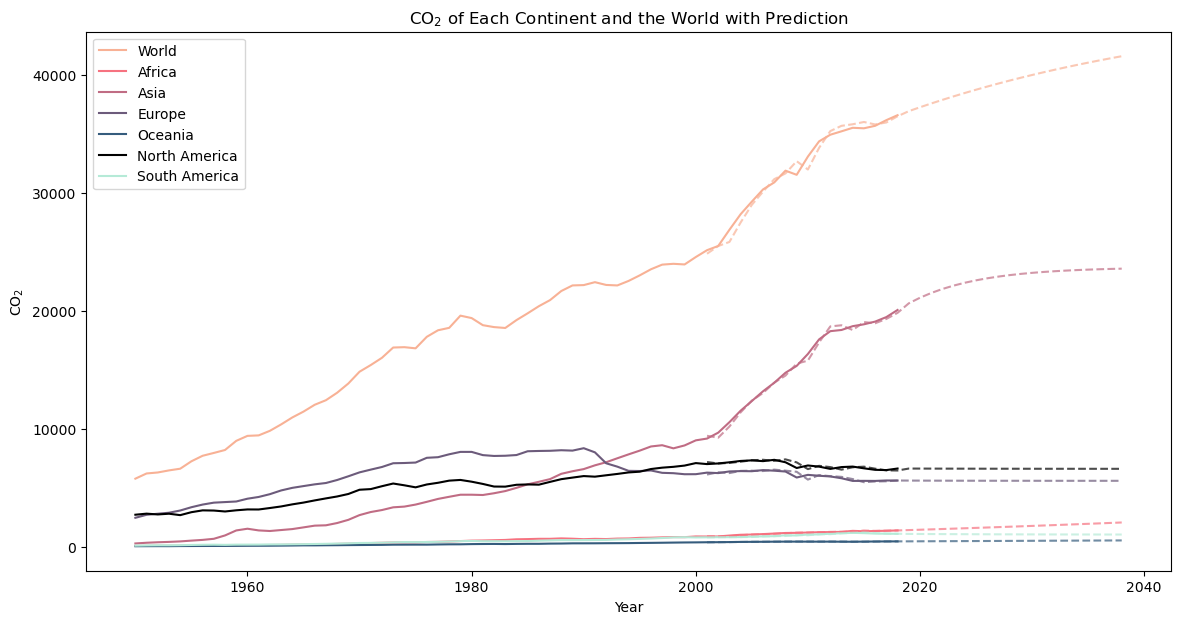
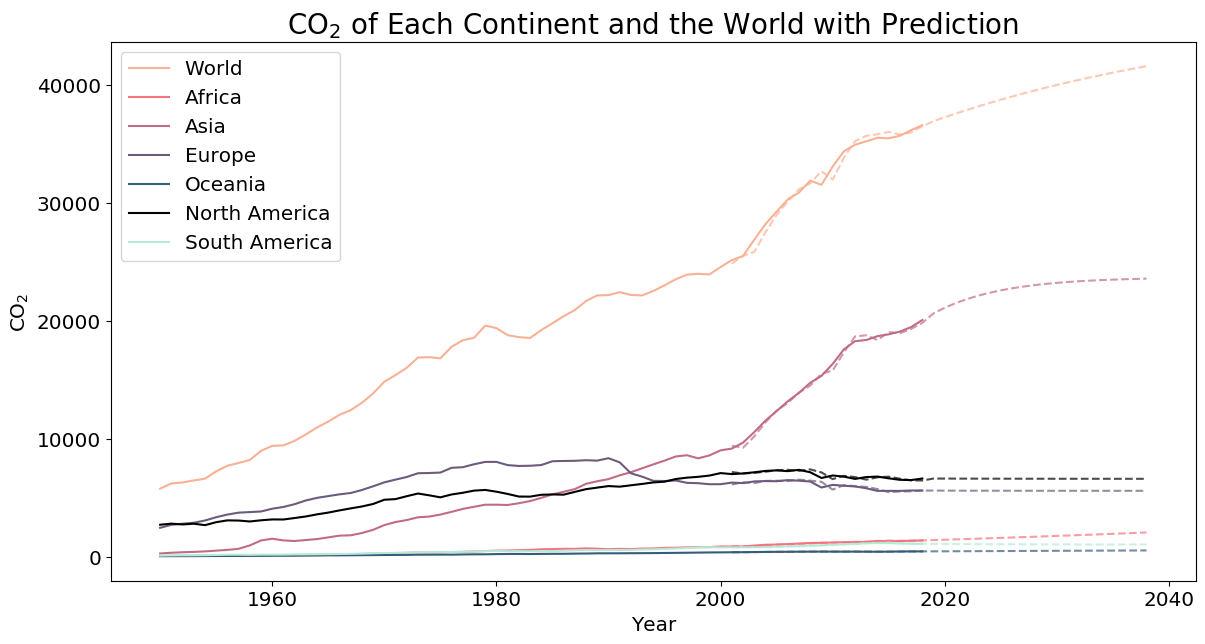
fix overall world predicitons and representations, re-render images

diff --git a/world_overall.py b/world_overall.py
@@ -25,8 +25,25 @@ def run():
                 columns_to_drop.append(column)
         avg_health_df = avg_health_df_new.drop(columns=columns_to_drop)
         health_data.append(avg_health_df)
-    health_data[0] =  (health_data[0] - health_data[0].mean()) / health_data[0].std()
-    health_data[1] = 1-( health_data[1] -  health_data[1].mean()) /  health_data[1].std()# inversely normalize when the higher the better
+
+    #pct change operates on cols, hence transposing
+    health_data[0] = health_data[0].T
+    africa = health_data[1].iloc[0].pct_change()
+    health_data[0] = health_data[0].pct_change()
+    health_data[0].iloc[0] = africa
+    health_data[0] = health_data[0].T
+
+    health_data[1] = health_data[1].T
+    africa = health_data[1].iloc[0].pct_change()
+    health_data[1] = health_data[1].pct_change()
+    health_data[1].iloc[0] = africa
+    health_data[1] = health_data[1].T
+
+
+
+    #health_data[0] =  (health_data[0] - health_data[0].mean()) / health_data[0].std()
+    health_data[1] = - (health_data[1]) # inverse when the higher the better
+    #health_data[1] = 1-( health_data[1] -  health_data[1].mean()) /  health_data[1].std()# inversely normalize when the higher the better
 
     avg_health_df = pd.concat([health_data[0], health_data[1]], axis=1).groupby(axis=1, level=0).mean()
 
@@ -40,13 +57,25 @@ def run():
             if int(column) < min_year or int(column) > max_year:
                 columns_to_drop.append(column)
 
-        avg_economy_df_new = (avg_economy_df_new - avg_economy_df_new.mean()) / avg_economy_df_new.std()
+        #avg_economy_df_new = (avg_economy_df_new - avg_economy_df_new.mean()) / avg_economy_df_new.std()
         avg_economy_df = avg_economy_df_new.drop(columns=columns_to_drop)
         econ_data.append(avg_economy_df)
 
-    econ_data[0] = (econ_data[0] - econ_data[0].mean()) / econ_data[
-        0].std()
-    econ_data[1] = 1-(econ_data[1] - econ_data[1].mean()) / econ_data[1].std()
+
+    econ_data[0] = econ_data[0].T
+    africa = econ_data[1].iloc[0].pct_change()
+    econ_data[0] = econ_data[0].pct_change()
+    econ_data[0].iloc[0] = africa
+    econ_data[0] = econ_data[0].T
+
+    econ_data[1] = econ_data[1].T
+    africa = econ_data[1].iloc[0].pct_change()
+    econ_data[1] = econ_data[1].pct_change()
+    econ_data[1].iloc[0] = africa
+    econ_data[1] = econ_data[1].T
+    #econ_data[0] = (econ_data[0] - econ_data[0].mean()) / econ_data[0].std()
+    econ_data[1] = - econ_data[1] # inverse when the higher the better
+    #econ_data[1] = 1-(econ_data[1] - econ_data[1].mean()) / econ_data[1].std()
     avg_economy_df = pd.concat([econ_data[0], econ_data[1]], axis=1).groupby(axis=1, level=0).mean()
 
     environment_data = []
@@ -67,29 +96,49 @@ def run():
             cleaned_co2_df = cleaned_co2_df.join(co2_column)
         cleaned_co2_df = cleaned_co2_df.T[:-1]
         cleaned_co2_df.columns = cleaned_co2_df.columns.map(str)
-        cleaned_co2_df = 1-(cleaned_co2_df - cleaned_co2_df.mean()) / cleaned_co2_df.std()
+        cleaned_co2_df =  - cleaned_co2_df
+        #cleaned_co2_df = 1-(cleaned_co2_df - cleaned_co2_df.mean()) / cleaned_co2_df.std()
         environment_data.append(cleaned_co2_df)
+
+    environment_data[0] = environment_data[0].T
+    africa = environment_data[0].iloc[0].pct_change()
+    environment_data[0] = environment_data[0].pct_change()
+    environment_data[0].iloc[0] = africa
+    environment_data[0] = environment_data[0].T
+
+    environment_data[1] = environment_data[1].T
+    africa = environment_data[1].iloc[0].pct_change()
+    environment_data[1] = environment_data[1].pct_change()
+    environment_data[1].iloc[0] = africa
+    environment_data[1] = environment_data[1].T
 
     avg_env_df = pd.concat([environment_data[0], environment_data[1]], axis=1).groupby(axis=1, level=0).mean()
     common_cols =  avg_health_df.columns & avg_economy_df.columns & avg_env_df.columns
     avg_env_df = avg_env_df[common_cols]
     avg_health_df = avg_health_df[common_cols]
     avg_economy_df = avg_economy_df[common_cols]
-    a, b = autoregressive_integrated_moving_average(avg_env_df.T)
+
+    avg_env_df = avg_env_df.drop(columns='1991')
+    avg_health_df = avg_health_df.drop(columns='1991')
+    avg_economy_df = avg_economy_df.drop(columns='1991')
+
+    a, b = autoregressive_integrated_moving_average(avg_env_df.T, seasonal_order = (1, 1, 0, 1))
     a = a.set_index('Year')
     b = b.set_index('Year')
     avg_env_df = pd.concat([a.T,b[8:].T], axis=1)
-    a, b = autoregressive_integrated_moving_average(avg_health_df.T)
+    a, b = autoregressive_integrated_moving_average(avg_health_df.T, seasonal_order = (1, 1, 0, 1))
     a = a.set_index('Year')
     b = b.set_index('Year')
     avg_health_df = pd.concat([a.T, b[8:].T], axis=1)
-    a, b = autoregressive_integrated_moving_average(avg_economy_df.T)
+    a, b = autoregressive_integrated_moving_average(avg_economy_df.T, seasonal_order = (1, 1, 0, 1))
     a = a.set_index('Year')
     b = b.set_index('Year')
     avg_economy_df = pd.concat([a.T, b[8:].T], axis=1)
-    #print(avg_env_df)
-    #print(avg_health_df)
-    #print(avg_economy_df.index, avg_economy_df.columns)
+
+
+    print(avg_env_df)
+    print(avg_health_df)
+    print(avg_economy_df)
     create_world_bubble_map(avg_health_df, avg_env_df, avg_economy_df, 'world_overall.png')
 
 

diff --git a/visualizations/world_map.py b/visualizations/world_map.py
@@ -42,14 +42,14 @@ def create_world_bubble_map(data_health, data_env, data_econ, filename):
     data_env = data_env.join(coords_env)
     data_econ = data_econ.join(coords_econ)
 
-
     for column in data_health.columns:
-        m.scatter(data_health['lon'], data_health['lat'], s=17000,  c=data_health[column], cmap='RdYlGn', zorder=1000, alpha=0.7)# big value -> green, small value -> red
-        m.scatter(data_env['lon'], data_env['lat'], s=17000, c=data_env[column], cmap='RdYlGn', zorder=1000, alpha=0.7)
-        m.scatter(data_econ['lon'], data_econ['lat'],s=17000,  c=data_econ[column], cmap='RdYlGn', zorder=1000, alpha=0.7)
+        m.scatter(data_health['lon'], data_health['lat'], vmax = 0.025, vmin= -0.1, s=17000,  c=data_health[column], cmap='RdYlGn', zorder=1000, alpha=0.9)# big value -> green, small value -> red
+        m.scatter(data_env['lon'], data_env['lat'], vmax = 0.025, vmin= -0.1, s=17000, c=data_env[column], cmap='RdYlGn', zorder=1000, alpha=0.9)
+        m.scatter(data_econ['lon'], data_econ['lat'],vmax = 0.025, vmin= -0.1, s=17000,  c=data_econ[column], cmap='RdYlGn', zorder=1000, alpha=0.9)
         for elem in coords:
             plt.text(elem[0]-20, elem[1]-25, elem[2],
             ha='left', va='bottom', size=30, color='#555555')
+
 
         '''for elem in coords:
             plt.text(elem[0]-7, elem[1], 'Health',
@@ -63,7 +63,6 @@ def create_world_bubble_map(data_health, data_env, data_econ, filename):
 
         plt.text(-180, -68, column,
             ha='left', va='bottom', size=30, color='#555555', backgroundcolor='#E7E7E7')
-
         plt.savefig(column + '_' + filename, bbox_inches='tight', transparent=True)
 
 if __name__ =="__main__":

diff --git a/environment.py b/environment.py
@@ -8,10 +8,6 @@ from visualizations.graphs import plot_prediction_line_graph, stacked_bar_graph_
 
 
 def plot_natural_disaster_prediction(file_name=None):
-    #     csv = pd.read_csv('./data/economy/cleaned_data/avg_gdp_continents.csv', index_col=0)
-    #     data, pred_df = autoregressive_integrated_moving_average(csv.T, steps = 20, seasonal_order=(1, 1, 0, 12))
-    #     plot_prediction_line_graph(data, pred_df, 'Year', 'GDP (Billion US$)', 'GDP Predictions per Continent', 'predictions.png')
-
     csv = pd.read_csv(
         './data/environmental/cleaned_data/cleaned_number-of-natural-disaster-events.csv',
         index_col=0)
@@ -34,7 +30,7 @@ def plot_natural_disaster_prediction(file_name=None):
     stacked_bar_graph_prediction(
         all_data,
         filename=file_name,
-        title="Natural Disasters",
+        title="Number of Natural Disasters (1900-2020) and Predictions (2030-2050)",
         ylabel="Number of Incidents",
     )
 
@@ -85,9 +81,9 @@ if __name__ == "__main__":
 
     plot_predict_co2_continent(year_start=1950,
                                year_end=2018,
-                               file_name='co2-continent-prediction.png')
+                               file_name='presentation_images/co2-continent-prediction.png')
 
     plot_predict_co2_continent_person(year_start=1950,
                                       year_end=2018,
-                                      file_name='co2-personal-prediction.png')
+                                      file_name='presentation_images/co2-personal-prediction.png')
 

diff --git a/economy.py b/economy.py
@@ -11,7 +11,7 @@ def run():
         csv.T, steps=20, seasonal_order=(1, 1, 0, 12))
     plot_prediction_line_graph(
         data, pred_df, 'Year', 'GDP (Billion US$)',
-        'GDP Predictions per Continent', 'presentation_images/predictions.png')  #, 'predictions.png'
+        'Annual GDP and Predictions per Continent', 'presentation_images/predictions.png')  #, 'predictions.png'
 
     # csv = pd.read_csv('./data/environmental/cleaned_data/cleaned_number-of-natural-disaster-events.csv', index_col=0)
     # csv = csv.reset_index()
